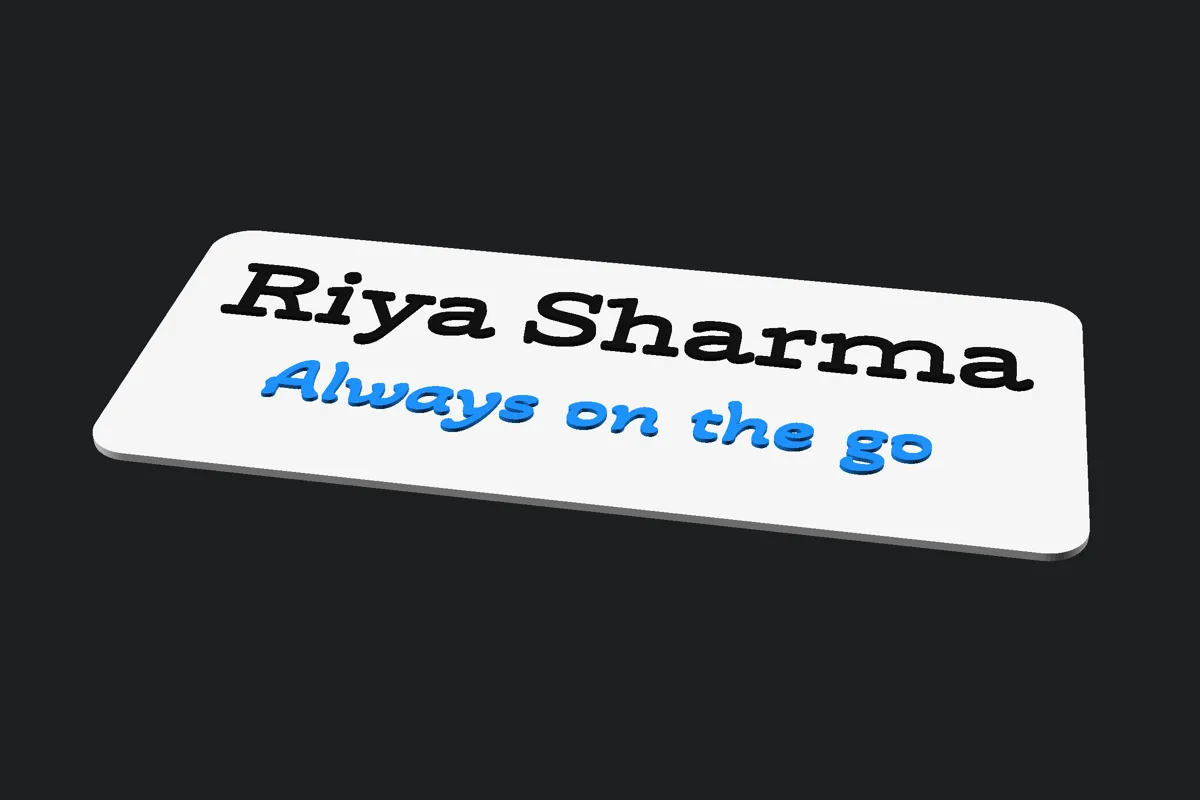
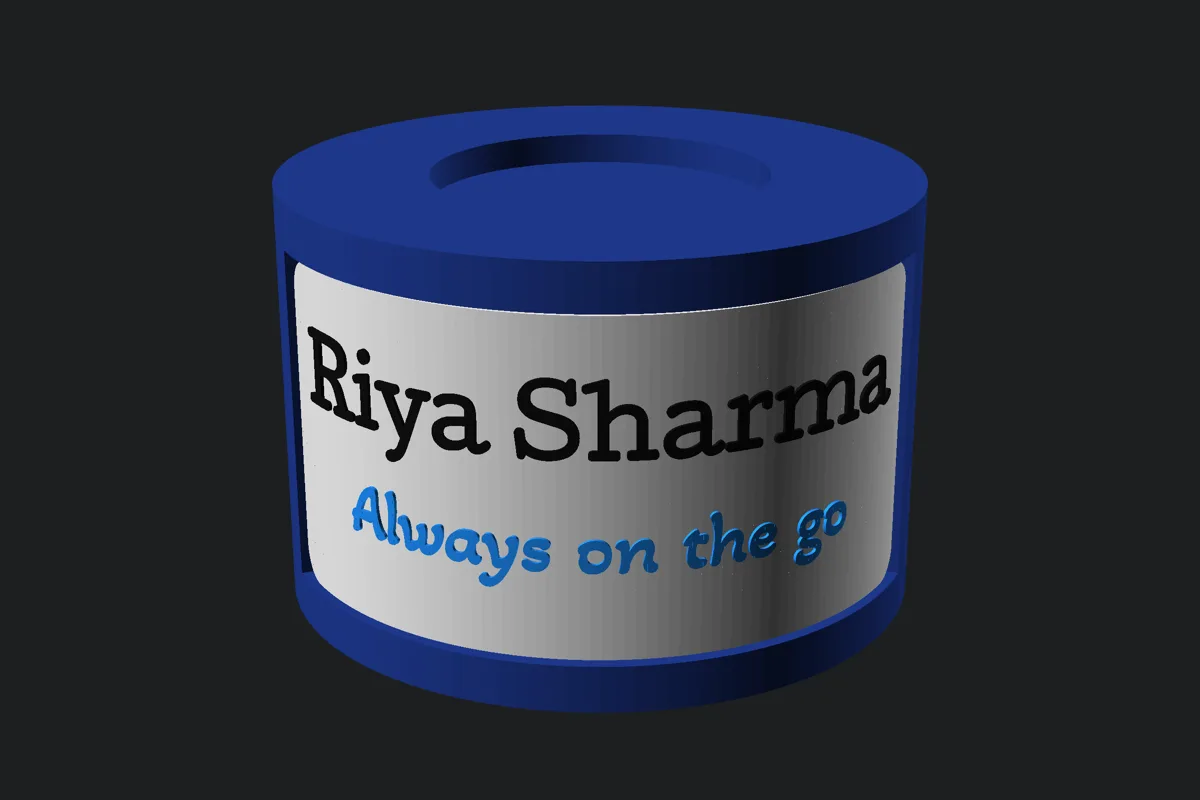
Podium nameplate starter now includes the podium
The starter was only the flat nameplate. It now models the figurine
podium the plate goes on, rebuilt from the Unilever/ITC podium (96 x 64 mm
hollow cylinder, open bottom, 50.5 mm figurine seat, curved 2 mm pocket
from 7 to 57 mm up).

- Pocket length and height are derived from the plate plus clearances,
  measured at the plate's bend radius, so a resized plate still fits.
  (The original pocket was ~1 mm short of a bent 109 mm plate.)
- pocketCount = 2 adds a back pocket; figurineBaseDiameter = 0 gives a
  flat top.
- showAssembled wraps the plate into the pocket in narrow strips; the
  print layout has the plate flat and the podium on its top face.
- Asserts guard pocket depth vs plate + text, wall left behind the
  pocket, overlapping pockets and the seat width.

diff --git a/src/lib/builtin-scad/podium-nameplate.ts b/src/lib/builtin-scad/podium-nameplate.ts
@@ -1,13 +1,17 @@
 export const PODIUM_NAMEPLATE_SCAD = String.raw`
-// Podium nameplate.
-// A thin rounded plate with a raised name and up to two tagline lines, sized
-// to sit on the front of a figurine podium or a trophy. It prints flat in
-// three colours: the plate, the name and the taglines.
+// Figurine podium with nameplate.
+// A round, hollow podium with a seat on top for a figurine base and a curved
+// pocket on the front. A thin nameplate with a raised name and up to two
+// taglines prints flat, then bends into the pocket.
 //
 // The name shrinks only when it would overrun the plate. The taglines grow
 // together to fill the plate width, up to tagMaxSize, so short and long
 // taglines both look deliberate. The text block re-centres when a tagline
 // is left empty.
+//
+// showAssembled = false lays the parts out to print: the plate flat and the
+// podium upside down on its top face. showAssembled = true previews the
+// plate wrapped into the pocket.
 
 /* [Text] */
 name = "Riya Sharma";
@@ -44,14 +48,44 @@ tag1YTwoTags = -3;
 tag1YOneTag = -9;
 tag2Y = -12;
 
+/* [Podium] */
+podiumDiameter = 96;
+podiumHeight = 64;
+wallThickness = 8;
+// Solid top above the hollow
+topThickness = 9;
+// Seat for the figurine's base; set figurineBaseDiameter = 0 for a flat top
+figurineBaseDiameter = 50;
+seatDepth = 4.5;
+seatClearance = 0.5;
+// 1 = front only, 2 = front and back
+pocketCount = 1;
+// Must hold the plate plus its raised text
+pocketDepth = 2;
+// Height of the pocket floor above the bottom of the podium
+pocketBottom = 7;
+// Extra pocket length and height around the plate
+pocketClearanceLength = 1.5;
+pocketClearanceHeight = 1;
+
 /* [Colors] */
+podiumColor = "#1F3A93"; // color
 plateColor = "#F5F5F5"; // color
 nameColor = "#111111"; // color
 tagColor = "#1E90FF"; // color
 
+/* [Preview] */
+showAssembled = false;
+
 /* [Hidden] */
-$fn = 64;
+$fn = 128;
 maxTextWidth = plateLength - 2 * sideMargin;
+R = podiumDiameter / 2;
+pocketHeight = plateWidth + pocketClearanceHeight;
+// The plate bends at the middle of its thickness, sitting on the pocket floor.
+plateBendRadius = R - pocketDepth + plateThickness / 2;
+pocketAngle = (plateLength + pocketClearanceLength) / plateBendRadius * 180 / PI;
+seatDiameter = figurineBaseDiameter + seatClearance;
 
 // Width text() occupies once the bold offset is applied.
 function text_width(txt, size, font) =
@@ -66,12 +100,23 @@ tagCount = (tagline1 == "" ? 0 : 1) + (tagline2 == "" ? 0 : 1);
 tagFitSize = let(widest = max(text_width(tagline1, tagSize, tagFont), text_width(tagline2, tagSize, tagFont)))
     widest == 0 ? tagSize
     : min(tagCount == 2 ? tagMaxSizeTwoTags : tagMaxSize, tagSize * maxTextWidth / widest);
+
 nameY = tagCount == 2 ? nameYTwoTags : (tagCount == 1 ? nameYOneTag : 0);
 tag1Y = tagCount == 2 ? tag1YTwoTags : tag1YOneTag;
 
 assert(cornerRadius * 2 < min(plateLength, plateWidth), "cornerRadius is too large for the plate.");
+assert(pocketDepth >= plateThickness + textHeight,
+       "pocketDepth must hold the plate and its raised text. Raise pocketDepth or thin the plate.");
+assert(pocketDepth < wallThickness - 1.5, "pocketDepth leaves too little wall behind the pocket.");
+assert(pocketAngle * pocketCount < 340, "The pockets overlap. Shorten the plate or use one pocket.");
+assert(pocketBottom >= 2 && pocketBottom + pocketHeight <= podiumHeight - 2,
+       "The pocket needs at least 2mm of podium above and below it. Adjust pocketBottom, narrow the plate or make the podium taller.");
+assert(figurineBaseDiameter == 0 || seatDiameter < podiumDiameter - 2 * wallThickness,
+       "The figurine seat is wider than the podium top allows.");
 
-module plate() {
+// ---------- Nameplate ----------
+
+module plate_shape() {
     linear_extrude(height = plateThickness)
         offset(r = cornerRadius)
             offset(delta = -cornerRadius)
@@ -87,11 +132,88 @@ module bold_text(txt, size, font, y) {
                     text(txt, size = size, font = font, halign = "center", valign = "center");
 }
 
-color(plateColor) plate();
-color(nameColor) bold_text(name, nameFitSize, nameFont, nameY);
-color(tagColor) {
+module name_text() {
+    bold_text(name, nameFitSize, nameFont, nameY);
+}
+
+module tag_text() {
     // A single tagline sits in the tagline1 slot, whichever field holds it.
     bold_text(tagline1 == "" ? tagline2 : tagline1, tagFitSize, tagFont, tag1Y);
     if (tagCount == 2) bold_text(tagline2, tagFitSize, tagFont, tag2Y);
+}
+
+// The flat plate's three color regions, by index, so the wrap can bend each one.
+module plate_part(part) {
+    if (part == 0) plate_shape();
+    else if (part == 1) name_text();
+    else tag_text();
+}
+
+module flat_plate() {
+    color(plateColor) plate_part(0);
+    color(nameColor) plate_part(1);
+    color(tagColor) plate_part(2);
+}
+
+// ---------- Podium ----------
+
+module pocket() {
+    translate([0, 0, pocketBottom])
+        rotate([0, 0, -pocketAngle / 2])
+            rotate_extrude(angle = pocketAngle, $fn = 256)
+                translate([R - pocketDepth, 0])
+                    square([pocketDepth + 1, pocketHeight]);
+}
+
+module podium() {
+    color(podiumColor)
+        difference() {
+            cylinder(h = podiumHeight, r = R);
+            // Hollow underneath, open at the bottom
+            translate([0, 0, -1])
+                cylinder(h = podiumHeight - topThickness + 1, r = R - wallThickness);
+            if (figurineBaseDiameter > 0)
+                translate([0, 0, podiumHeight - seatDepth])
+                    cylinder(h = seatDepth + 1, d = seatDiameter);
+            for (i = [0 : pocketCount - 1])
+                rotate([0, 0, i * 360 / pocketCount]) pocket();
+        }
+}
+
+// ---------- Assembled preview ----------
+
+// Bend one color region of the flat plate around the podium in narrow strips.
+// Flat x runs around the podium, flat y runs up it, flat z points outward.
+module wrapped_part(part, stripWidth = 1.5) {
+    floorRadius = R - pocketDepth;
+    for (x = [-plateLength / 2 : stripWidth : plateLength / 2]) {
+        a = x / plateBendRadius * 180 / PI;
+        c = cos(a);
+        s = sin(a);
+        multmatrix([[-s, 0, c, c * floorRadius],
+                    [ c, 0, s, s * floorRadius],
+                    [ 0, 1, 0, pocketBottom + pocketHeight / 2],
+                    [ 0, 0, 0, 1]])
+            intersection() {
+                translate([-x, 0, 0]) plate_part(part);
+                translate([-stripWidth / 2 - 0.01, -plateWidth, -1])
+                    cube([stripWidth + 0.02, 2 * plateWidth, plateThickness + textHeight + 2]);
+            }
+    }
+}
+
+if (showAssembled) {
+    // The first pocket is on the +X side; turn it to face the viewer.
+    rotate([0, 0, -90]) {
+        podium();
+        color(plateColor) wrapped_part(0);
+        color(nameColor) wrapped_part(1);
+        color(tagColor) wrapped_part(2);
+    }
+} else {
+    flat_plate();
+    // Upside down on its top face, so the hollow needs no support.
+    translate([0, -(plateWidth / 2 + R + 10), podiumHeight])
+        rotate([180, 0, 0]) podium();
 }
 `

diff --git a/src/lib/builtin-canonicals.ts b/src/lib/builtin-canonicals.ts
@@ -219,23 +219,27 @@ Gotchas:
   },
   {
     id: 'builtin-podium-nameplate',
-    title: 'Podium nameplate',
+    title: 'Figurine podium with nameplate',
     description:
-      'A thin rounded plate with a raised name and up to two taglines, sized for the front of a figurine podium or trophy. Prints flat in three colors.',
+      'A round, hollow podium with a seat for a figurine on top and a curved pocket on the front. A nameplate with a raised name and up to two taglines prints flat, then bends into the pocket.',
     category: 'Desk & display',
     code: PODIUM_NAMEPLATE_SCAD,
-    modificationGuide: `A single flat plate (109 × 49 × 1 mm by default) with raised text in two colors. It is often made in batches: one plate per person, same style, different name and taglines.
+    modificationGuide: `Two parts: a hollow podium and a thin nameplate (109 × 49 × 1 mm by default) that bends into a curved pocket on the podium's front. It is often made in batches: one podium and plate per person, same style, different name and taglines.
 
 Common changes:
 - Set name, tagline1 and tagline2. Leave a tagline empty to drop it; the text block re-centres for one or zero taglines.
 - The name shrinks only when it would overrun the plate. Both taglines share one size, which grows to fill the plate width up to tagMaxSize (tagMaxSizeTwoTags when there are two lines), so a short tagline gets bigger, not lost.
 - nameFont and tagFont: Cutive (typewriter serif) for the name and Akaya Kanadaka (playful hand-drawn) for the taglines is the house style. Change them only if the user asks.
-- plateColor, nameColor and tagColor are the three printable regions.
-- plateLength, plateWidth and cornerRadius size the plate to match a podium face.
+- figurineBaseDiameter sizes the seat on top to the figurine's base; 0 gives a flat top. pocketCount = 2 adds a matching pocket on the back.
+- podiumColor, plateColor, nameColor and tagColor are the printable regions.
+- showAssembled = true previews the plate wrapped into the pocket; false lays both parts out to print.
+${PRINT_FIT_GUIDANCE}
 
 Gotchas:
+- The pocket's length and height are derived from the plate (plateLength, plateWidth) plus the pocket clearances. Size the plate, not the pocket, and the pocket follows.
+- pocketDepth must hold the plate plus its raised text, or the text stands proud of the podium and catches. The render stops with a message if it does not.
 - The line positions in the Layout group are tuned for the default plate size and text sizes. If you change plateWidth or the text sizes a lot, move them too so lines do not overlap or hit the edge.
-- Very long taglines get small. Split them across tagline1 and tagline2 rather than shrinking below about 3.5 mm.
+- The podium prints upside down on its top face, so the hollow needs no support; the figurine seat is then a short bridge. Keep it that way round.
 - Keep textHeight at 0.4 mm or more so the color change shows after slicing.`,
     thumbnail: '/canonicals/podium-nameplate.webp',
   },

diff --git a/src/lib/builtin-canonicals.test.ts b/src/lib/builtin-canonicals.test.ts
@@ -100,8 +100,11 @@ describe('built-in canonical catalog', () => {
     expect(figurine.code).toContain('show_heart = true')
     expect(award.code).toContain('line3 = "With heartfelt gratitude"')
 
-    // The podium plate fits the name and grows the taglines to fill the width.
+    // The podium carries a curved pocket sized from the plate, which fits the
+    // name and grows the taglines to fill the width.
     const podium = byId('builtin-podium-nameplate')
+    expect(podium.code).toContain('module podium()')
+    expect(podium.code).toContain('module wrapped_part(')
     expect(podium.code).toContain('tagFitSize')
     expect(podium.code).toContain('nameFont = "Cutive"')
     expect(podium.code).toContain('tagFont = "Akaya Kanadaka"')

diff --git a/src/lib/builtin-canonicals.render.test.ts b/src/lib/builtin-canonicals.render.test.ts
@@ -60,9 +60,10 @@ const VARIANTS: Record<string, Record<string, string | boolean>[]> = {
   'builtin-figurine-display-base': [{ show_assembled: true, two_sided: true }],
   'builtin-award-plaque-base': [{ show_assembled: true }, { line3: '' }],
   'builtin-podium-nameplate': [
+    { showAssembled: true },
     { tagline2: 'Coffee first, meetings later' },
     { tagline1: '', tagline2: '' },
-    { name: 'Venkataraman Subramaniam Krishnamurthy' },
+    { name: 'Venkataraman Subramaniam Krishnamurthy', pocketCount: 2, figurineBaseDiameter: 0 },
   ],
   'builtin-two-name-illusion': [{ frontName: 'ANNA', sideName: 'LEO' }],
   'builtin-letter-pen-stand': [
